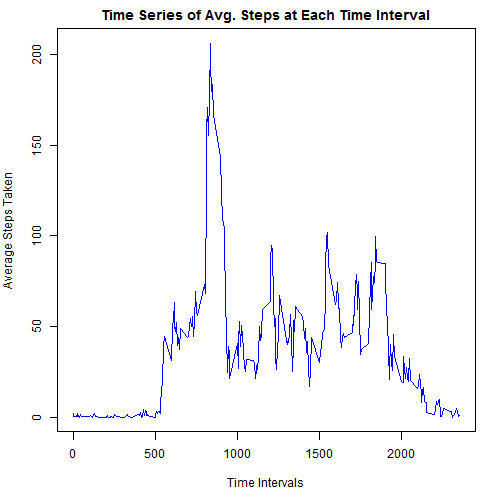
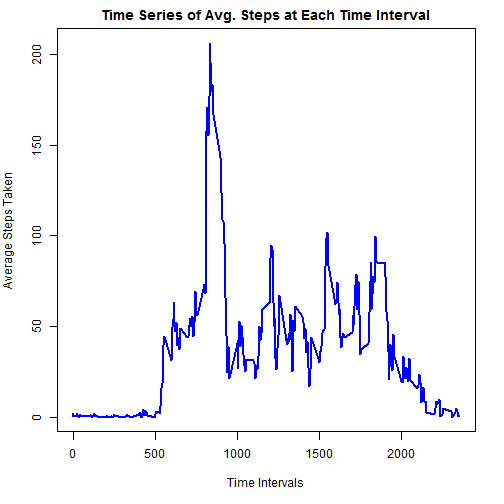
Edits

diff --git a/PA1_template.html b/PA1_template.html
@@ -232,7 +232,7 @@ hr {
 
 <!-- html table generated in R 3.1.1 by xtable 1.7-3 package -->
 
-<!-- Sun Aug 17 15:45:12 2014 -->
+<!-- Sun Aug 17 16:04:14 2014 -->
 
 <TABLE border=1>
 <TR> <TH>  </TH> <TH>     steps </TH> <TH>      date </TH> <TH>    interval </TH>  </TR>
@@ -302,10 +302,10 @@ hr {
     max_mean_steps &lt;- int_mean_steps[int_mean_steps$x == max(int_mean_steps$x),]
 
     par(mfrow = c(1, 1), mar = c(5, 4, 2, 2))
-    plot(int_mean_steps$interval, int_mean_steps$x, type=&quot;l&quot;, col = &quot;blue&quot;, xlab=&quot;Time Intervals&quot;, ylab=&quot;Average Steps Taken&quot;, main=&quot;Time Series of Avg. Steps at Each Time Interval&quot;)  
+    plot(int_mean_steps$interval, int_mean_steps$x, type=&quot;l&quot;, col = &quot;blue&quot;, lwd=2, xlab=&quot;Time Intervals&quot;, ylab=&quot;Average Steps Taken&quot;, main=&quot;Time Series of Avg. Steps at Each Time Interval&quot;)  
 </code></pre>
 
[2 lines of base64/hex data omitted]
 
 <h4>The maximum average steps is: <strong>206</strong> which occured at interval:  <strong>835</strong></h4>
 
@@ -367,12 +367,12 @@ hr {
     max_weekday_steps &lt;- int_weekday_steps[int_weekday_steps$x == max(int_weekday_steps$x),]
 
     par(mfrow = c(2, 1), mar = c(5, 4, 2, 2))
-    plot(int_weekend_steps$interval, int_weekend_steps$x, type=&quot;l&quot;, col = &quot;cyan&quot;, xlab=&quot;Time Intervals&quot;, ylab=&quot;Average Steps Taken&quot;, main=&quot;Time Series of Weekend Avg. Steps&quot;)  
+    plot(int_weekend_steps$interval, int_weekend_steps$x, type=&quot;l&quot;, col = &quot;cyan&quot;, lwd=2, xlab=&quot;Time Intervals&quot;, ylab=&quot;Average Steps Taken&quot;, main=&quot;Time Series of Weekend Avg. Steps&quot;)  
 
-    plot(int_weekday_steps$interval, int_weekday_steps$x, type=&quot;l&quot;, col = &quot;purple&quot;, xlab=&quot;Time Intervals&quot;, ylab=&quot;Average Steps Taken&quot;, main=&quot;Time Series of Weekday Avg. Steps&quot;)  
+    plot(int_weekday_steps$interval, int_weekday_steps$x, type=&quot;l&quot;, col = &quot;purple&quot;, lwd=2, xlab=&quot;Time Intervals&quot;, ylab=&quot;Average Steps Taken&quot;, main=&quot;Time Series of Weekday Avg. Steps&quot;)  
 </code></pre>
 
[2 lines of base64/hex data omitted]
 
 <p>The maximum weekend average steps is: <strong>158</strong> which occured at interval:  <strong>915</strong></p>
 

diff --git a/PA1_template.md b/PA1_template.md
@@ -47,7 +47,7 @@ _____________________________________________________________________
 ```
 
 <!-- html table generated in R 3.1.1 by xtable 1.7-3 package -->
-<!-- Sun Aug 17 15:45:12 2014 -->
+<!-- Sun Aug 17 16:04:14 2014 -->
 <TABLE border=1>
 <TR> <TH>  </TH> <TH>     steps </TH> <TH>      date </TH> <TH>    interval </TH>  </TR>
   <TR> <TD align="right"> 1 </TD> <TD> Min.   :  0.0   </TD> <TD> Min.   :2012-10-01   </TD> <TD> Min.   :   0   </TD> </TR>
@@ -128,7 +128,7 @@ _____________________________________________________________________
     max_mean_steps <- int_mean_steps[int_mean_steps$x == max(int_mean_steps$x),]
 
     par(mfrow = c(1, 1), mar = c(5, 4, 2, 2))
-    plot(int_mean_steps$interval, int_mean_steps$x, type="l", col = "blue", xlab="Time Intervals", ylab="Average Steps Taken", main="Time Series of Avg. Steps at Each Time Interval")  
+    plot(int_mean_steps$interval, int_mean_steps$x, type="l", col = "blue", lwd=2, xlab="Time Intervals", ylab="Average Steps Taken", main="Time Series of Avg. Steps at Each Time Interval")  
 ```
 
 ![plot of chunk averageDailyActivity](figure/averageDailyActivity.png) 
@@ -197,9 +197,9 @@ Charts for mean and median processed data appear very similar in shape and conto
     max_weekday_steps <- int_weekday_steps[int_weekday_steps$x == max(int_weekday_steps$x),]
 
     par(mfrow = c(2, 1), mar = c(5, 4, 2, 2))
-    plot(int_weekend_steps$interval, int_weekend_steps$x, type="l", col = "cyan", xlab="Time Intervals", ylab="Average Steps Taken", main="Time Series of Weekend Avg. Steps")  
+    plot(int_weekend_steps$interval, int_weekend_steps$x, type="l", col = "cyan", lwd=2, xlab="Time Intervals", ylab="Average Steps Taken", main="Time Series of Weekend Avg. Steps")  
 
-    plot(int_weekday_steps$interval, int_weekday_steps$x, type="l", col = "purple", xlab="Time Intervals", ylab="Average Steps Taken", main="Time Series of Weekday Avg. Steps")  
+    plot(int_weekday_steps$interval, int_weekday_steps$x, type="l", col = "purple", lwd=2, xlab="Time Intervals", ylab="Average Steps Taken", main="Time Series of Weekday Avg. Steps")  
 ```
 
 ![plot of chunk weekendTimeSeries](figure/weekendTimeSeries.png) 
